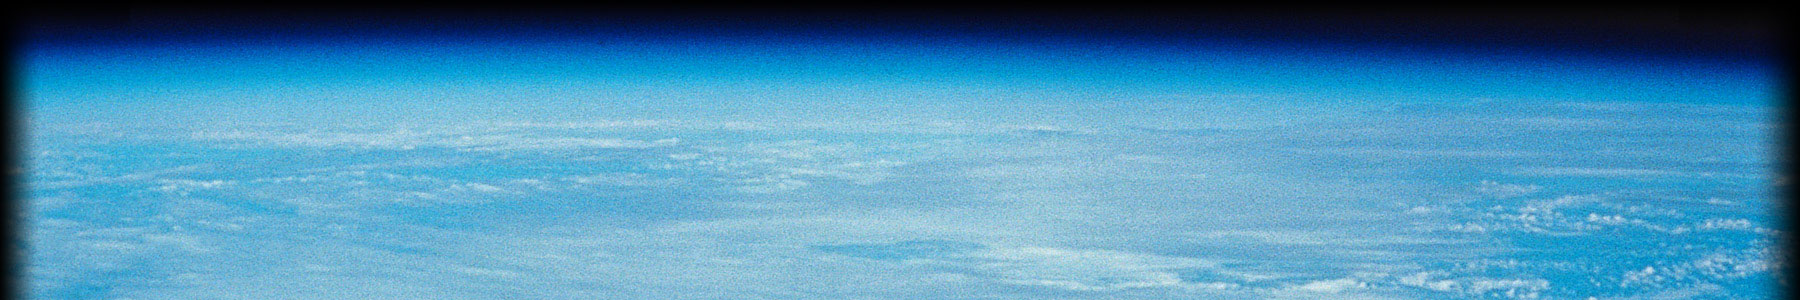
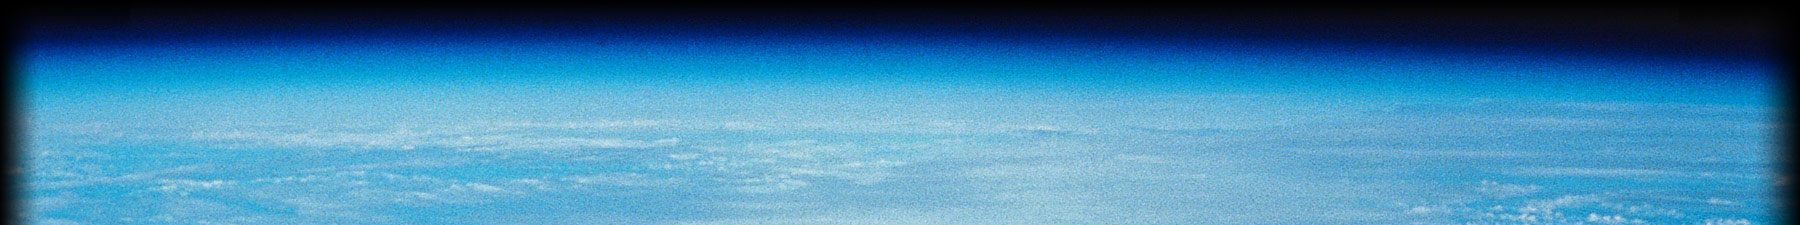
Smaller earth background image, sidebar contact info text bolded

diff --git a/style.css b/style.css
@@ -183,7 +183,7 @@ div.sidebar_social {
 address {
 	text-transform: uppercase;
 	font-size: 14px;
-	font-weight: 200;	
+	font-weight: 400;	
 	letter-spacing: 1px;
 }
 
